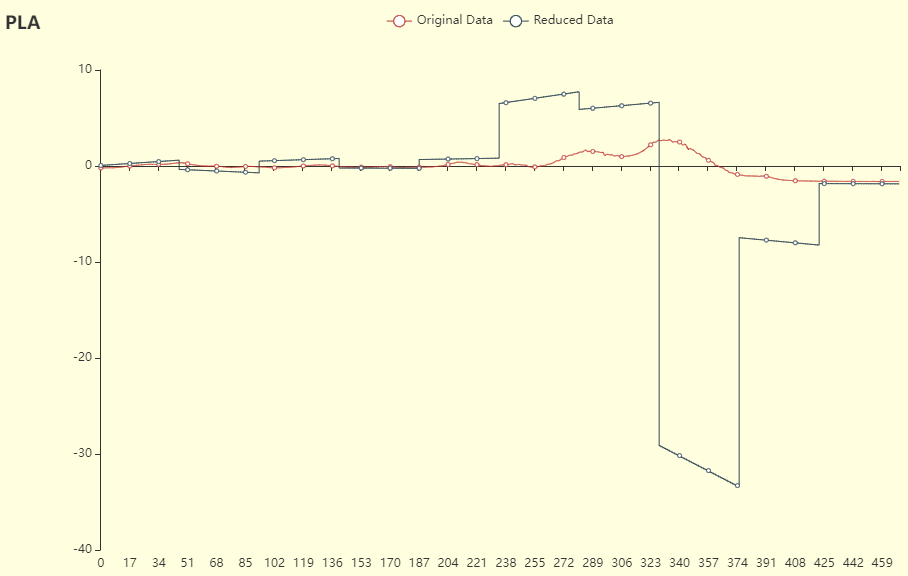
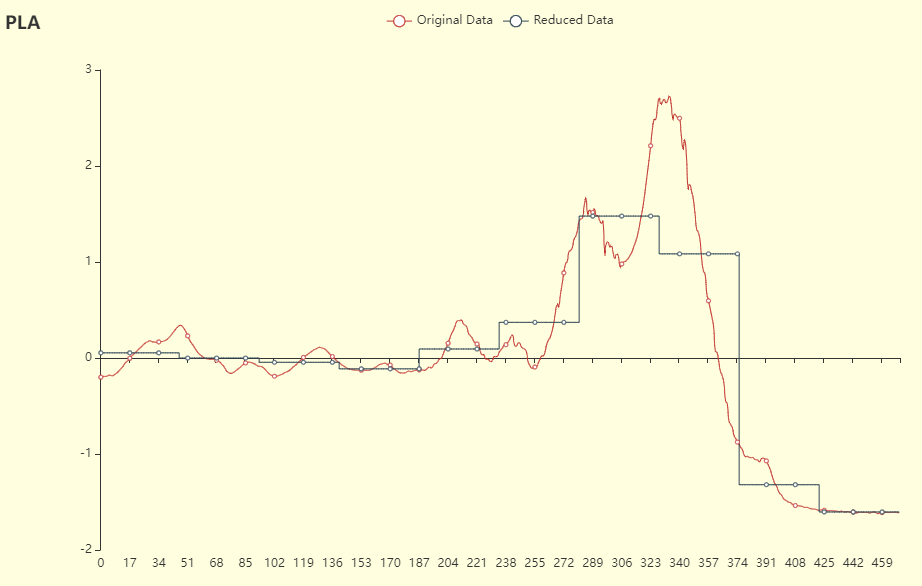
[Update] adjust the code and images for the fix of PLA.

diff --git a/static/Python/test_data_graphs/draw_test_data_graphs.py b/static/Python/test_data_graphs/draw_test_data_graphs.py
@@ -13,7 +13,7 @@ dft_time = [0.009, 0.009, 0.011, 0.012, 0.009]
 dwt_time = [0.005, 0.007, 0.009, 0.008, 0.011]
 one_d_sax_time = [0.059, 0.061, 0.066, 0.062, 0.069]
 paa_time = [0.009, 0.005, 0.011, 0.004, 0.005]
-pla_time = [0.015, 0.015, 0.025, 0.013, 0.039]
+pla_time = [0.012, 0.015, 0.017, 0.013, 0.039]
 svd_time = [0.015, 0.011, 0.009, 0.011, 0.015]
 
 plt_1 = plt.figure(figsize=(8, 8))
@@ -80,7 +80,7 @@ dft_ed = [41.395, 144.807, 287.761, 21.596, 14.135]
 dwt_ed = [99.131, 189.964, 217.914, 41.043, 143.509]
 one_d_sax_ed = [102.93, 308.565, 309.957, 40.679, 72.523]
 paa_ed = [51.235, 150.437, 283.86, 74.981, 40.783]
-pla_ed = [1635.607, 6150.588, 14240.988, 1787.686, 1151.015]
+pla_ed = [16.757, 111.961, 250.157, 13.159, 3.294]
 svd_ed = [5495.37, 19345.57, 11596.508, 1167.33, 8296.6523]
 
 plt_3 = plt.figure(figsize=(8, 8))
@@ -114,7 +114,7 @@ dft_dtw_dis = [34.699, 131.384, 287.932, 17.1642, 9.355]
 dwt_dtw_dis = [73.026, 219.857, 185.549, 30.3367, 65.226]
 one_d_sax_dtw_dis = [88.65, 302.719, 306.771, 29.954, 45.775]
 paa_dtw_dis = [46.146, 140.463, 283.564, 34.618, 29.045]
-pla_dtw_dis = [1493.324, 6027.964, 13870.457, 1745.406, 800.279]
+pla_dtw_dis = [13.102, 15.749, 99.349, 249.876, 13.102]
 svd_dtw_dis = [5495.37, 19345.57, 11596.508, 1167.33, 8296.653]
 
 plt_4 = plt.figure(figsize=(8, 8))
